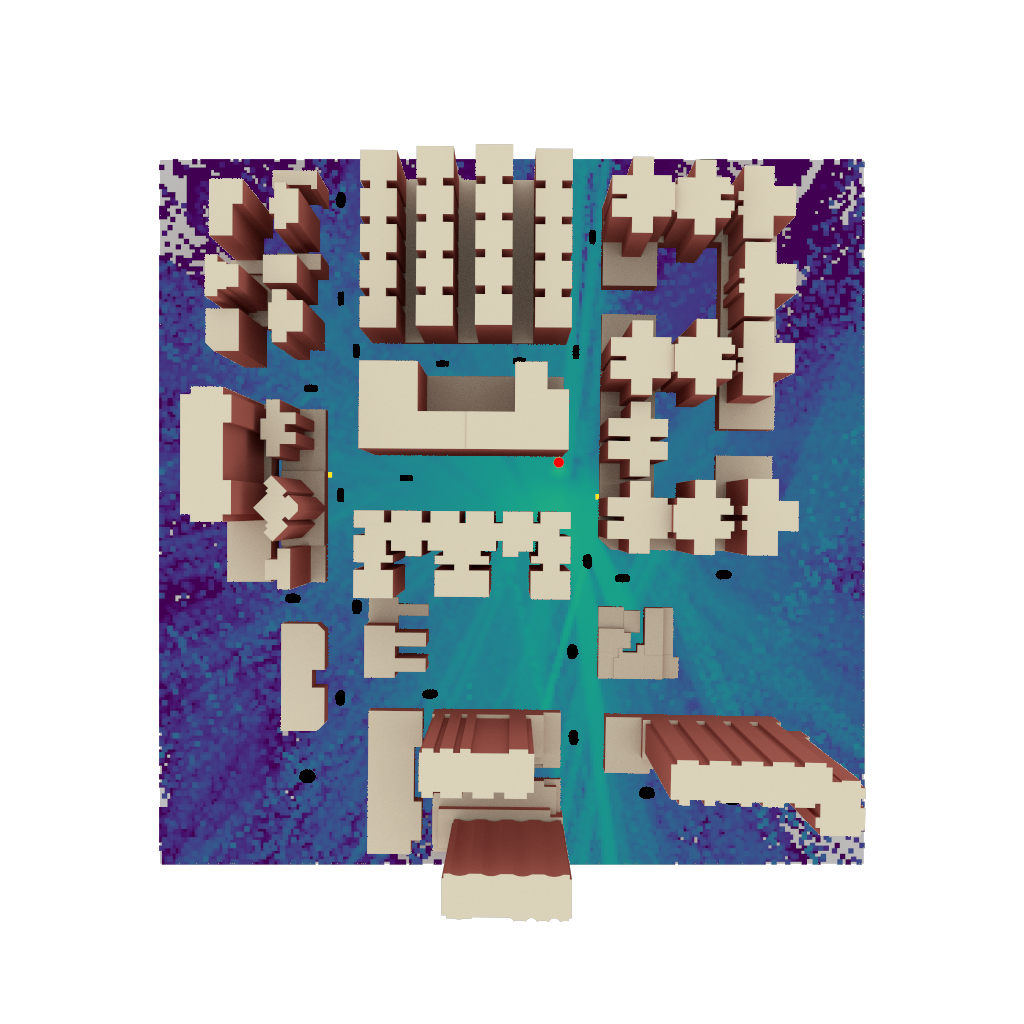
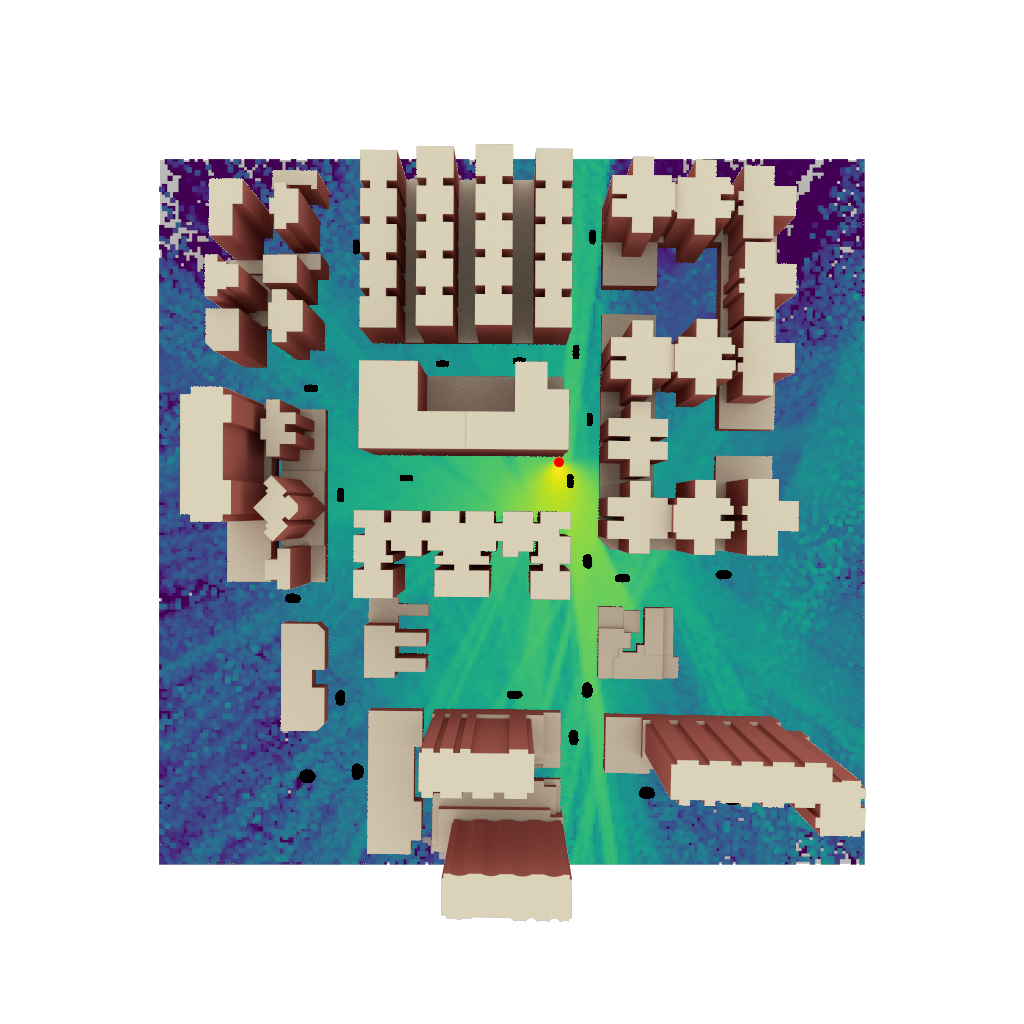
backend

diff --git a/data_gain.py b/data_gain.py
@@ -46,7 +46,7 @@ for idx in range(1,num_scenes+1):
             
   
     
-    scene.add(Transmitter("tx", position=[4,18,1.5], orientation=[np.pi,0,0]))
+    scene.add(Transmitter("tx", position=[4,18,3], orientation=[np.pi,0,0]))
     scene.tx_array = PlanarArray(num_rows=1, num_cols=1, pattern="tr38901", polarization="V")
     scene.rx_array = scene.tx_array
 
